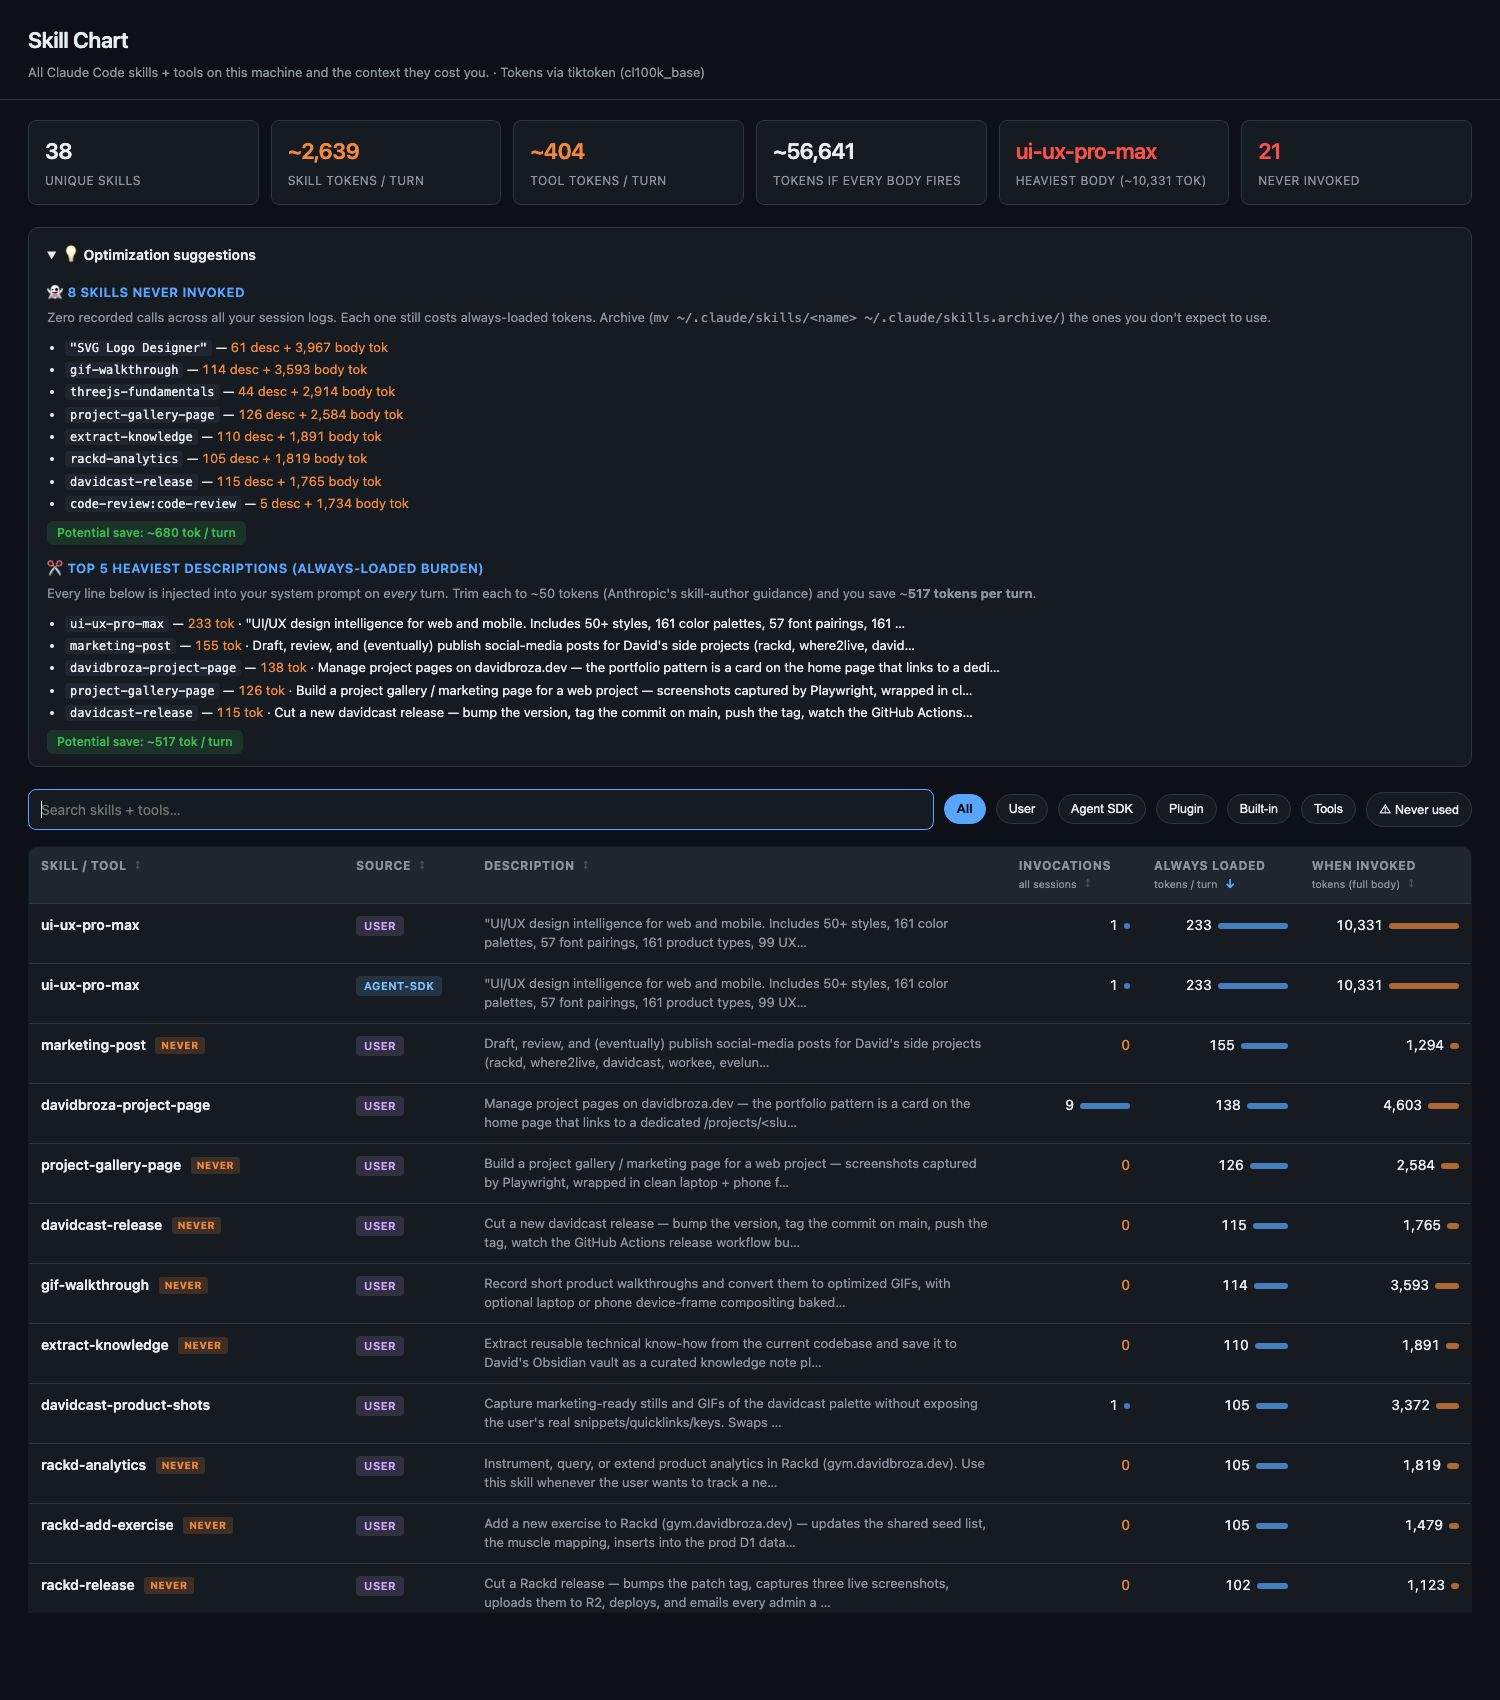
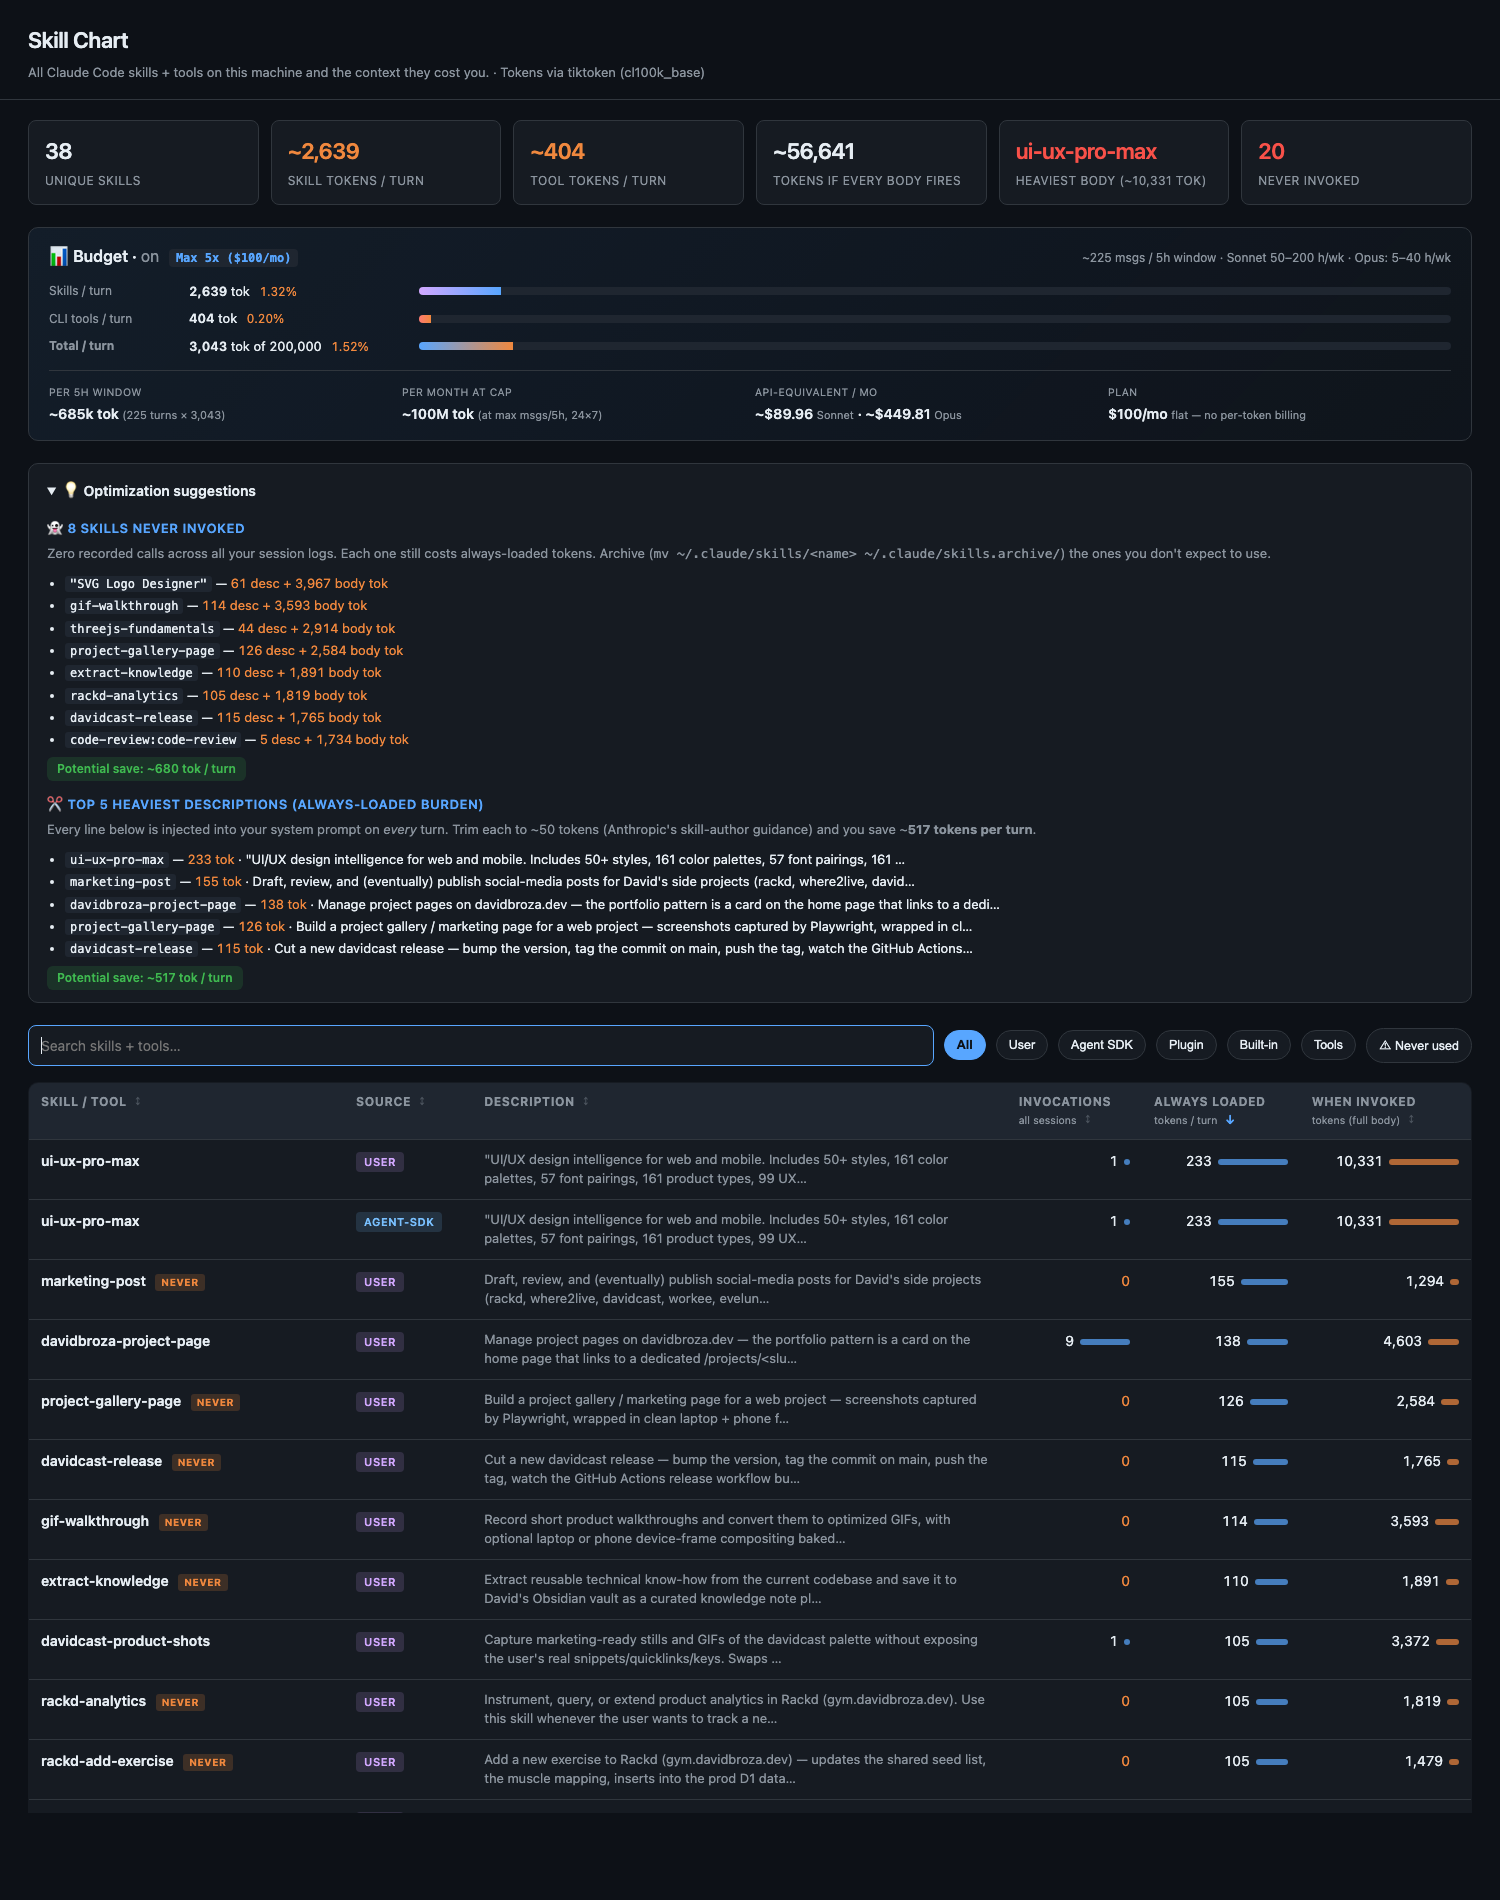
v0.3.0: plan-aware budget visualization
- New 'Budget' panel: shows always-loaded as % of context window for the user's subscription, plus 5h-window load, monthly token volume at cap, and API-equivalent $/mo for Sonnet/Opus

- Plan choices: free / pro / max-5x / max-20x with sensible defaults

- Configurable via --plan (one-shot), --set-plan (persist to ~/.config/skillchart/config.json), or env

- --show-config prints resolved config

diff --git a/build.py b/build.py
@@ -22,7 +22,7 @@ import sys
 from datetime import datetime, timezone
 from pathlib import Path
 
-__version__ = "0.2.0"
+__version__ = "0.3.0"
 
 HOME = Path.home()
 
@@ -51,6 +51,59 @@ def default_cache_dir() -> Path:
 
 
 SNAPSHOT_PATH = default_cache_dir() / "last-snapshot.json"
+CONFIG_PATH = Path(os.environ.get("XDG_CONFIG_HOME", str(HOME / ".config"))) / "skillchart" / "config.json"
+
+
+# Subscription plans — approximate quotas, transparently labelled.
+# Anthropic publishes ranges; these are reasonable midpoints. Override in config or via --plan.
+PLANS: dict[str, dict] = {
+    "free": {
+        "label": "Free",
+        "monthly_price_usd": 0,
+        "context_window": 200_000,
+        "messages_per_5h": 30,
+        "code_hours_sonnet_weekly": (5, 15),
+        "code_hours_opus_weekly": None,
+    },
+    "pro": {
+        "label": "Pro ($20/mo)",
+        "monthly_price_usd": 20,
+        "context_window": 200_000,
+        "messages_per_5h": 80,
+        "code_hours_sonnet_weekly": (40, 80),
+        "code_hours_opus_weekly": None,
+    },
+    "max-5x": {
+        "label": "Max 5x ($100/mo)",
+        "monthly_price_usd": 100,
+        "context_window": 200_000,
+        "messages_per_5h": 225,
+        "code_hours_sonnet_weekly": (50, 200),
+        "code_hours_opus_weekly": (5, 40),
+    },
+    "max-20x": {
+        "label": "Max 20x ($200/mo)",
+        "monthly_price_usd": 200,
+        "context_window": 200_000,
+        "messages_per_5h": 900,
+        "code_hours_sonnet_weekly": (240, 480),
+        "code_hours_opus_weekly": (24, 40),
+    },
+}
+
+
+def load_config() -> dict:
+    if not CONFIG_PATH.exists():
+        return {}
+    try:
+        return json.loads(CONFIG_PATH.read_text())
+    except Exception:
+        return {}
+
+
+def save_config(cfg: dict) -> None:
+    CONFIG_PATH.parent.mkdir(parents=True, exist_ok=True)
+    CONFIG_PATH.write_text(json.dumps(cfg, indent=2) + "\n")
 
 
 # Built-in skills shipped with the Claude Code CLI (no SKILL.md on disk).
@@ -525,6 +578,25 @@ HTML_TEMPLATE = r"""<!doctype html>
   .diff-banner { background: var(--panel); border: 1px solid var(--border); border-radius: 8px; padding: 10px 14px; margin-bottom: 16px; font-size: 13px; }
   .diff-banner .delta-up { color: var(--hot); }
   .diff-banner .delta-down { color: var(--good); }
+  .budget { background: linear-gradient(135deg, rgba(88,166,255,0.08), rgba(88,166,255,0.02)); border: 1px solid var(--border); border-radius: 10px; padding: 16px 20px; margin-bottom: 22px; }
+  .budget-head { display: flex; align-items: baseline; justify-content: space-between; flex-wrap: wrap; gap: 12px; margin-bottom: 14px; }
+  .budget-head .plan { font-size: 16px; font-weight: 600; }
+  .budget-head .plan code { background: var(--panel-2); padding: 2px 7px; border-radius: 4px; font-size: 12px; color: var(--accent); margin-left: 6px; }
+  .budget-head .plan-hint { color: var(--muted); font-size: 12px; }
+  .budget-bar-row { display: flex; align-items: center; gap: 10px; margin: 8px 0; font-size: 13px; }
+  .budget-bar-row .lbl { width: 130px; color: var(--muted); font-size: 12px; flex-shrink: 0; }
+  .budget-bar-row .val { font-variant-numeric: tabular-nums; min-width: 220px; }
+  .budget-bar-row .val .num { font-weight: 600; color: var(--text); }
+  .budget-bar-row .val .pct { color: var(--warn); margin-left: 6px; font-size: 12px; }
+  .budget-bar { flex: 1; height: 8px; background: var(--panel-2); border-radius: 4px; overflow: hidden; min-width: 120px; }
+  .budget-bar > span { display: block; height: 100%; background: linear-gradient(90deg, var(--accent), var(--warn)); }
+  .budget-bar.skills > span { background: linear-gradient(90deg, var(--user), var(--accent)); }
+  .budget-bar.tools > span { background: linear-gradient(90deg, var(--tool), var(--warn)); }
+  .budget-aside { display: grid; grid-template-columns: repeat(auto-fit, minmax(210px, 1fr)); gap: 10px; margin-top: 14px; padding-top: 14px; border-top: 1px solid var(--border); }
+  .budget-aside .item { font-size: 12px; }
+  .budget-aside .item .k { color: var(--muted); text-transform: uppercase; letter-spacing: 0.04em; font-size: 10.5px; }
+  .budget-aside .item .v { font-weight: 600; font-size: 14px; margin-top: 2px; }
+  .budget-aside .item .v small { color: var(--muted); font-weight: 400; font-size: 11px; }
 </style>
 </head>
 <body>
@@ -537,6 +609,8 @@ HTML_TEMPLATE = r"""<!doctype html>
   <div id="diff-banner-host"></div>
 
   <div class="stats" id="stats"></div>
+
+  <section id="budget" class="budget"></section>
 
   <details id="opt-panel" open>
     <summary>💡 Optimization suggestions</summary>
@@ -584,6 +658,7 @@ const q = document.getElementById("q");
 const statsEl = document.getElementById("stats");
 const optEl = document.getElementById("opt-body");
 const diffHost = document.getElementById("diff-banner-host");
+const budgetEl = document.getElementById("budget");
 
 document.getElementById("counter-mode").textContent = `· Tokens via ${META.tiktoken ? "tiktoken (cl100k_base)" : "chars/4 estimate"}`;
 document.getElementById("counter-mode-2").textContent = META.tiktoken ? "tiktoken cl100k_base (accurate)" : "chars/4 (rough)";
@@ -609,6 +684,81 @@ let sortDir = -1;
 
 function fmt(n) { return n == null ? "—" : n.toLocaleString(); }
 function maxBy(arr, k) { return arr.reduce((m, x) => Math.max(m, x[k] || 0), 0); }
+
+function renderBudget() {
+  const plan = META.plan;
+  const planKey = META.plan_key;
+  const canonical = SKILLS.filter(s => s.canonical);
+  const skillRows = canonical.filter(x => x.category !== "tool");
+  const toolRows = canonical.filter(x => x.category === "tool");
+  const skillsAlways = skillRows.reduce((s, x) => s + (x.desc_tokens || 0), 0);
+  const toolsAlways = toolRows.reduce((s, x) => s + (x.desc_tokens || 0), 0);
+  const totalAlways = skillsAlways + toolsAlways;
+  const ctx = plan.context_window;
+  const pctSkills = (skillsAlways / ctx) * 100;
+  const pctTools = (toolsAlways / ctx) * 100;
+  const pctTotal = pctSkills + pctTools;
+
+  const msgPer5h = plan.messages_per_5h;
+  const msgsPerWeek = msgPer5h * (24 * 7 / 5);
+  const skillsPerWindow = totalAlways * msgPer5h;
+  const skillsPerMonth = totalAlways * msgsPerWeek * 4.345;
+
+  // What it would cost if you were on API pricing (Sonnet input ~$3/M, Opus ~$15/M).
+  // We assume cache hit ~70% of the time (5-min TTL, multi-turn sessions).
+  const cacheHitRate = 0.70;
+  const sonnetUSDperM = 3.00;
+  const opusUSDperM = 15.00;
+  const billable = skillsPerMonth * (1 - cacheHitRate);
+  const equivSonnet = (billable / 1_000_000) * sonnetUSDperM;
+  const equivOpus = (billable / 1_000_000) * opusUSDperM;
+
+  const opusLine = plan.code_hours_opus_weekly
+    ? `· Opus: ${plan.code_hours_opus_weekly[0]}–${plan.code_hours_opus_weekly[1]} h/wk`
+    : "";
+
+  budgetEl.innerHTML = `
+    <div class="budget-head">
+      <div class="plan">📊 Budget · <span style="color:var(--muted);font-weight:400;">on</span> <code>${escape(plan.label)}</code></div>
+      <div class="plan-hint">~${msgPer5h} msgs / 5h window · Sonnet ${plan.code_hours_sonnet_weekly[0]}–${plan.code_hours_sonnet_weekly[1]} h/wk ${opusLine}</div>
+    </div>
+
+    <div class="budget-bar-row">
+      <span class="lbl">Skills / turn</span>
+      <span class="val"><span class="num">${fmt(skillsAlways)}</span> tok <span class="pct">${pctSkills.toFixed(2)}%</span></span>
+      <span class="budget-bar skills"><span style="width:${Math.min(100, pctSkills * 6).toFixed(1)}%"></span></span>
+    </div>
+    <div class="budget-bar-row">
+      <span class="lbl">CLI tools / turn</span>
+      <span class="val"><span class="num">${fmt(toolsAlways)}</span> tok <span class="pct">${pctTools.toFixed(2)}%</span></span>
+      <span class="budget-bar tools"><span style="width:${Math.min(100, pctTools * 6).toFixed(1)}%"></span></span>
+    </div>
+    <div class="budget-bar-row">
+      <span class="lbl"><strong>Total / turn</strong></span>
+      <span class="val"><span class="num">${fmt(totalAlways)}</span> tok of ${fmt(ctx)} <span class="pct">${pctTotal.toFixed(2)}%</span></span>
+      <span class="budget-bar"><span style="width:${Math.min(100, pctTotal * 6).toFixed(1)}%"></span></span>
+    </div>
+
+    <div class="budget-aside">
+      <div class="item">
+        <div class="k">Per 5h window</div>
+        <div class="v">~${fmt(Math.round(skillsPerWindow / 1000))}k tok <small>(${msgPer5h} turns × ${fmt(totalAlways)})</small></div>
+      </div>
+      <div class="item">
+        <div class="k">Per month at cap</div>
+        <div class="v">~${fmt(Math.round(skillsPerMonth / 1_000_000))}M tok <small>(at max msgs/5h, 24×7)</small></div>
+      </div>
+      <div class="item">
+        <div class="k">API-equivalent / mo</div>
+        <div class="v">~$${equivSonnet.toFixed(2)} <small>Sonnet</small> · ~$${equivOpus.toFixed(2)} <small>Opus</small></div>
+      </div>
+      <div class="item">
+        <div class="k">Plan</div>
+        <div class="v">$${plan.monthly_price_usd}/mo <small>flat — no per-token billing</small></div>
+      </div>
+    </div>
+  `;
+}
 
 function renderStats(rows) {
   const canonical = rows.filter(x => x.canonical);
@@ -708,6 +858,7 @@ function render() {
     return sortDir * (va - vb);
   });
 
+  renderBudget();
   renderStats(rows);
   renderOptimizations();
 
@@ -799,8 +950,24 @@ def main():
     ap.add_argument("--apply", action="store_true", help="With --fix-dupes: actually perform the symlinking (default is dry-run).")
     ap.add_argument("--no-snapshot", action="store_true", help="Don't write a snapshot for next-run diffing.")
     ap.add_argument("--no-usage", action="store_true", help="Skip parsing session logs for invocation counts (faster).")
+    ap.add_argument("--plan", choices=list(PLANS.keys()), help="Override subscription plan for this run (free / pro / max-5x / max-20x).")
+    ap.add_argument("--set-plan", choices=list(PLANS.keys()), metavar="PLAN", help="Save plan to ~/.config/skillchart/config.json and exit.")
+    ap.add_argument("--show-config", action="store_true", help="Print the resolved config and exit.")
     ap.add_argument("--version", action="version", version=f"skillchart {__version__}")
     args = ap.parse_args()
+
+    cfg = load_config()
+    if args.set_plan:
+        cfg["plan"] = args.set_plan
+        save_config(cfg)
+        print(f"saved plan={args.set_plan} to {CONFIG_PATH}")
+        return
+    if args.show_config:
+        resolved = {"plan": args.plan or cfg.get("plan", "max-5x"), "config_path": str(CONFIG_PATH), "config_exists": CONFIG_PATH.exists()}
+        print(json.dumps(resolved, indent=2))
+        return
+    plan_key = args.plan or cfg.get("plan", "max-5x")
+    plan = PLANS.get(plan_key, PLANS["max-5x"])
 
     skills = discover_skills()
 
@@ -828,7 +995,13 @@ def main():
 
     out_path = args.output or default_output_path()
     out_path.parent.mkdir(parents=True, exist_ok=True)
-    meta = {"tiktoken": TIKTOKEN_AVAILABLE, "diff": diff or None, "version": __version__}
+    meta = {
+        "tiktoken": TIKTOKEN_AVAILABLE,
+        "diff": diff or None,
+        "version": __version__,
+        "plan_key": plan_key,
+        "plan": plan,
+    }
     out = (HTML_TEMPLATE
            .replace("__DATA__", json.dumps(all_rows, ensure_ascii=False))
            .replace("__META__", json.dumps(meta, ensure_ascii=False)))
@@ -847,7 +1020,9 @@ def main():
     invoked = sum(1 for s in canonical if s.get("invocations", 0) > 0)
     never = sum(1 for s in canonical if s.get("invocations", 0) == 0 and s["category"] in ("user", "agent-sdk", "plugin"))
     print(f"  unique skills: {len(skill_canon)} ({by_cat}), {len(tool_canon)} tools", file=sys.stderr)
-    print(f"  always-loaded: ~{skills_desc:,} skill tok + ~{tools_desc:,} tool tok = ~{skills_desc + tools_desc:,} tok / turn", file=sys.stderr)
+    always_total = skills_desc + tools_desc
+    pct = always_total / plan["context_window"] * 100
+    print(f"  always-loaded: ~{skills_desc:,} skill tok + ~{tools_desc:,} tool tok = ~{always_total:,} tok / turn ({pct:.1f}% of {plan['context_window']:,} ctx — {plan['label']})", file=sys.stderr)
     print(f"  on-demand sum: ~{skills_body:,} tokens", file=sys.stderr)
     print(f"  usage: {invoked} invoked at least once, {never} never invoked", file=sys.stderr)
     if not TIKTOKEN_AVAILABLE:
